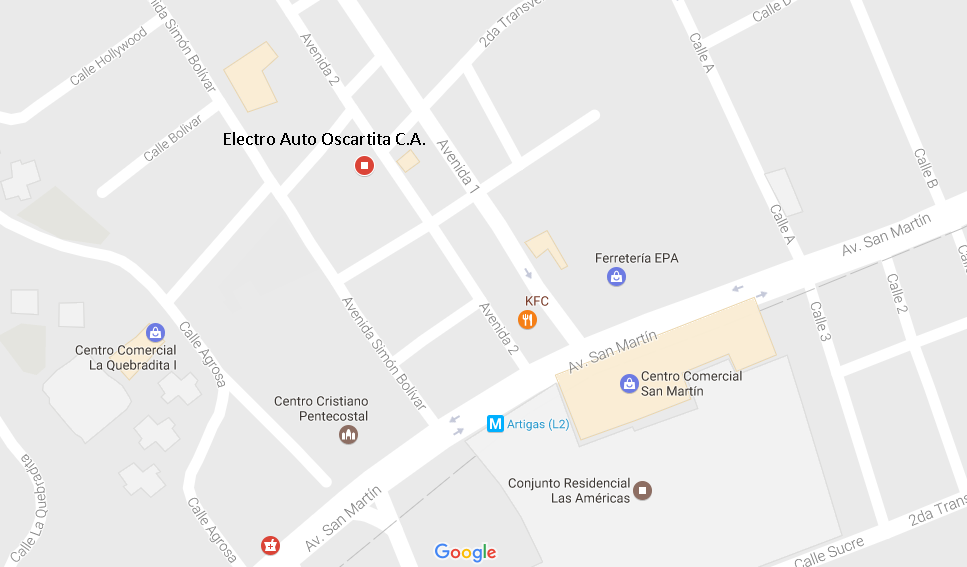
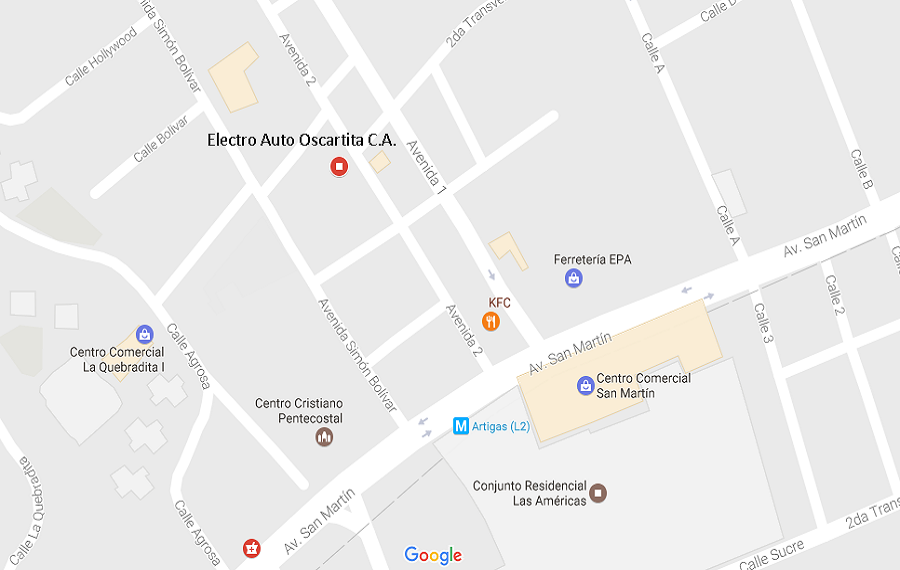
Se realizan arreglos en el panel de las img de google maps
se crea un nuevo carousel y link para ver las imagenes en tamaño real

diff --git a/inicio.html b/inicio.html
@@ -68,19 +68,38 @@
 			</div>	
 			<div class="col-sm-6 col-md-4">
         <div class="thumbnail">
-          <img src="img/google-maps/google-maps-cerca.png" alt="">
+          <div id="carousel-example-generic" class="carousel slide" data-ride="carousel">
+            <ol class="carousel-indicators">
+              <li data-target="#carousel-example-generic" data-slide-to="0" class="active"></li>
+              <li data-target="#carousel-example-generic" data-slide-to="1"></li>
+            </ol>
+            <div class="carousel-inner" role="listbox">
+              <div class="item active">
+                  <a href="google-cerca.html"><img  src="img/google-maps/google-maps-cerca.png" alt=""></a>
+                  <div class="carousel-caption">
+                  </div>
+              </div>
+              <div class="item">
+                  <a href="google-lejos.html"><img src="img/google-maps/google-maps-lejos.png" alt=""></a>
+                  <div class="carousel-caption">
+                  </div>
+              </div>
+            </div>
+            <a class="left carousel-control" href="#carousel-example-generic" role="button" data-slide="prev">
+              <span class="glyphicon glyphicon-chevron-left" aria-hidden="true"></span>
+              <span class="sr-only">Previous</span>
+            </a>
+            <a class="right carousel-control" href="#carousel-example-generic" role="button" data-slide="next">
+              <span class="glyphicon glyphicon-chevron-right" aria-hidden="true"></span>
+              <span class="sr-only">Next</span>
+            </a>
+          </div>
           <div class="caption">
             <h3 class="text-center">Electro Auto Oscartita C.A.</h3>
             <p class="text-center">...</p>
           </div>
         </div>
       </div>
-
-
-
-
-
-
       <div class="col-xs-4 col-sm-3 col-md-2 col-lg-2">
 				<div id="carousel-example-generic" class="carousel slide" data-ride="carousel">
   					<!-- Indicators -->

diff --git a/google-cerca.html b/google-cerca.html
@@ -1,0 +1,22 @@
+<!DOCTYPE html>
+<html>
+<head>
+	<title>Electroauto Oscartita</title>
+	<link rel="Shortcut Icon" type="image/x-icon" href="img/iconos/mecanica.ico" />
+	<link rel="stylesheet" type="text/css" href="css/bootstrap.min.css">
+	<link rel="stylesheet" type="text/css" href="css/estilo.css">
+	<script type="text/javascript" src="js/jquery-3.2.1.min.js"></script>
+	<script type="text/javascript" src="js/jquery.expander.js"></script>
+	<script type="text/javascript" src="js/bootstrap.min.js"></script>
+	<meta charset="utf-8">
+</head>
+<body>
+	<div class="container-fluid">
+		<div class="row" id="row-servicios">
+		 	<div class="col-xs-12 col-ms-12 col-md-12 col-lg-12">
+				<img src="img/google-maps/google-maps-cerca.png" alt="" class="img-thumbnail" class="img-responsive">
+			</div>
+		</div>	
+	</div>
+</body>
+</html>

diff --git a/google-lejos.html b/google-lejos.html
@@ -1,0 +1,22 @@
+<!DOCTYPE html>
+<html>
+<head>
+	<title>Electroauto Oscartita</title>
+	<link rel="Shortcut Icon" type="image/x-icon" href="img/iconos/mecanica.ico" />
+	<link rel="stylesheet" type="text/css" href="css/bootstrap.min.css">
+	<link rel="stylesheet" type="text/css" href="css/estilo.css">
+	<script type="text/javascript" src="js/jquery-3.2.1.min.js"></script>
+	<script type="text/javascript" src="js/jquery.expander.js"></script>
+	<script type="text/javascript" src="js/bootstrap.min.js"></script>
+	<meta charset="utf-8">
+</head>
+<body>
+	<div class="container-fluid">
+		<div class="row" id="row-servicios">
+		 	<div class="col-xs-12 col-ms-12 col-md-12 col-lg-12">
+				<img src="img/google-maps/google-maps-lejos.png" alt="" class="img-thumbnail" class="img-responsive">
+			</div>
+		</div>	
+	</div>
+</body>
+</html>
